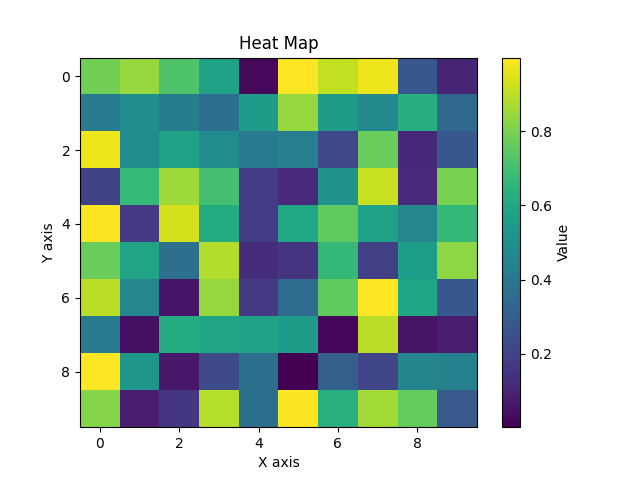
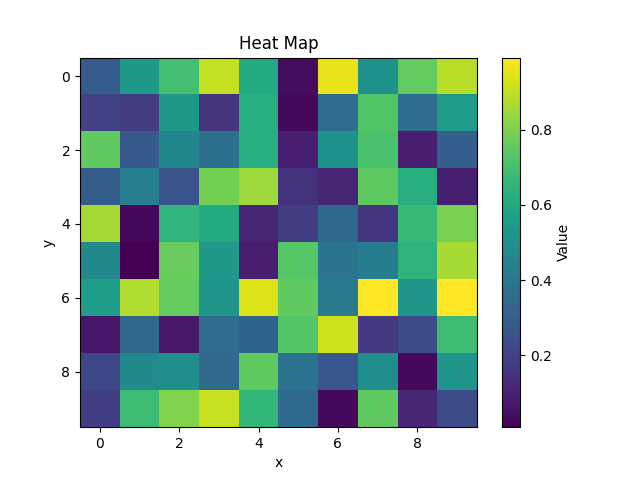
Tweaked image

diff --git a/resources/example_plot_generation.py b/resources/example_plot_generation.py
@@ -7,8 +7,8 @@ data = np.random.rand(10, 10)
 
 fig1, ax1 = plt.subplots()
 im = ax1.imshow(data, cmap='viridis', aspect='auto')
-ax1.set_xlabel('X axis')
-ax1.set_ylabel('Y axis')
+ax1.set_xlabel('x')
+ax1.set_ylabel('y')
 ax1.set_title('Heat Map')
 fig1.colorbar(im, ax=ax1, label='Value')
 
